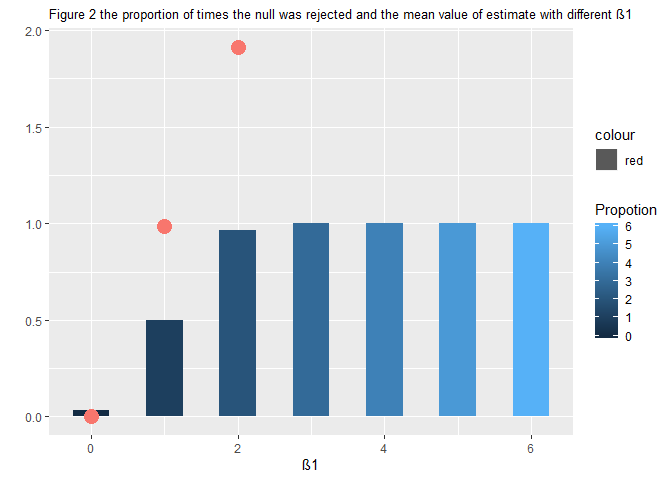
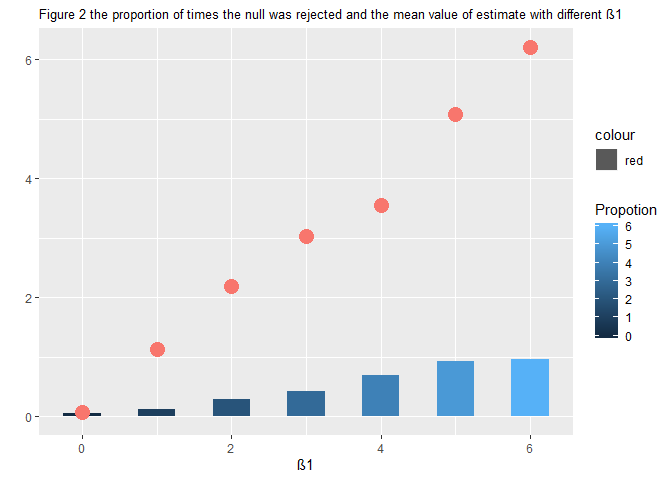
modify the for function to map function

diff --git a/p8105_hw5_yh2736.md b/p8105_hw5_yh2736.md
@@ -162,13 +162,14 @@ increase over time from 1.141 in week 1 to 5.119 week 8.
 ###set the fix value
 n = 30
 beta0 = 2
+run_times = 1000
 
-
-sim_regression = function(beta0, beta1 = i){
+### a funtion to obtain the estimate and p-value
+fun_sim_regression = function(run_times, beta0, beta1 = i){
   
   sim_data = tibble(
-    x = rnorm(10000),
-    y = beta0 + beta1 * x + rnorm(10000, 0, 50)
+    x = rnorm(run_times),
+    y = beta0 + beta1 * x + rnorm(run_times, 0, 50)
     )
   
   ls_fit = lm(y ~ x, data = sim_data)
@@ -183,64 +184,32 @@ sim_regression = function(beta0, beta1 = i){
  
 }
 
+###a funtion to RUN 10000 times to obtain the estimate and p-value
+fun_tidy_est_pvalue = function(i){
+  rerun(n, fun_sim_regression(run_times, beta0, i)) %>% 
+    bind_rows() %>% 
+    mutate(
+      beta1 = rep(i, n)
+    )
+}
 
-###simulation results when beta1 = 0
-sim_result_0 = rerun(n, sim_regression(0, 0)) %>% 
-  bind_rows() %>% 
-  mutate(
-    beta1 = rep(0, 30)
-  )
+### the value of beta1
+beta1_list = tibble(
+  a = 0,
+  b = 1,
+  c = 2,
+  d = 3,
+  e = 4,
+  f = 5,
+  g = 6
+)
 
-###simulation results when beta1 = 1
-sim_result_1 = rerun(n, sim_regression(0, 1)) %>% 
-  bind_rows() %>% 
-  mutate(
-    beta1 = rep(1, 30)
-  )
-###simulation results when beta1 = 2
-sim_result_2 = rerun(n, sim_regression(0, 2)) %>% 
-  bind_rows() %>% 
-  mutate(
-    beta1 = rep(2, 30)
-  )
+output = vector("list", 7)
 
-###simulation results when beta1 = 3
-sim_result_3 = rerun(n, sim_regression(0, 3)) %>% 
-  bind_rows() %>% 
-  mutate(
-    beta1 = rep(3, 30)
-  )
+###Obtain the dataset of estimate and p-value
+output = map(beta1_list, fun_tidy_est_pvalue)
 
-###simulation results when beta1 = 4
-sim_result_4 = rerun(n, sim_regression(0, 4)) %>% 
-  bind_rows() %>% 
-  mutate(
-    beta1 = rep(4, 30)
-  )
-
-###simulation results when beta1 = 5
-sim_result_5 = rerun(n, sim_regression(0, 5)) %>% 
-  bind_rows() %>% 
-  mutate(
-    beta1 = rep(5, 30)
-  )
-
-###simulation results when beta1 = 6
-sim_result_6 = rerun(n, sim_regression(0, 6)) %>% 
-  bind_rows() %>% 
-  mutate(
-    beta1 = rep(6, 30)
-  )
-
-
-### combine all of the results
-sim_results = Reduce(function(...) merge(..., all=TRUE), list(sim_result_0,
-                                                              sim_result_1,
-                                                              sim_result_2,
-                                                              sim_result_3,
-                                                              sim_result_4,
-                                                              sim_result_5,
-                                                              sim_result_6))
+sim_results = bind_rows(output)
 ```
 
 ``` r
@@ -279,8 +248,6 @@ left_join(propo_dataset, mean_dataset) %>%
 ```
 
     ## Joining, by = "beta1"
-
-    ## Warning: Removed 4 rows containing missing values (geom_point).
 
 ![](p8105_hw5_yh2736_files/figure-gfm/unnamed-chunk-5-1.png)<!-- -->
 Given the same sample size, with the increase of effect size, the power
